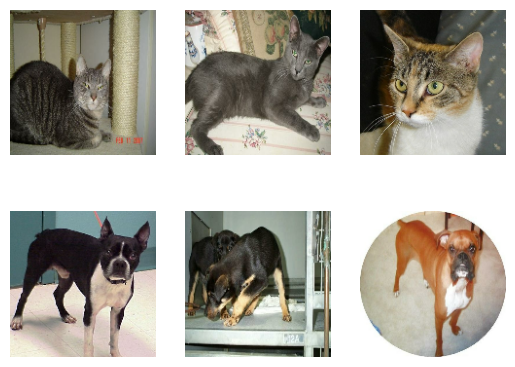
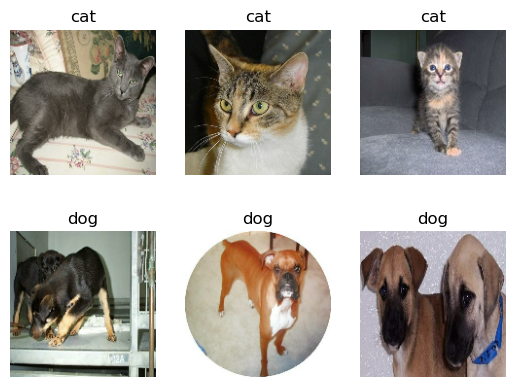
Built site for gh-pages

diff --git a/posts/hw 5/index.html b/posts/hw 5/index.html
@@ -192,7 +192,7 @@ pre > code.sourceCode > span > a:first-child::before { text-decoration: underlin
 <p>We will teach a machine learning algorithm to distinguish between pictures of dogs and pictures of cats. To do this, we will use tensorflow and keras. We will test several methods to see which method is the most accurate.</p>
 <section id="step-1-importing-necessary-packages-to-use-in-the-project" class="level3">
 <h3 class="anchored" data-anchor-id="step-1-importing-necessary-packages-to-use-in-the-project">Step 1: Importing necessary packages to use in the project</h3>
-<div id="70b1fee2-2e28-45b8-9876-0ba6ffef64b8" class="cell" data-tags="[]" data-execution_count="7">
+<div id="70b1fee2-2e28-45b8-9876-0ba6ffef64b8" class="cell" data-tags="[]" data-execution_count="3">
 <div class="sourceCode cell-code" id="cb1"><pre class="sourceCode python code-with-copy"><code class="sourceCode python"><span id="cb1-1"><a href="#cb1-1" aria-hidden="true" tabindex="-1"></a><span class="co"># importing necessary packages</span></span>
 <span id="cb1-2"><a href="#cb1-2" aria-hidden="true" tabindex="-1"></a></span>
 <span id="cb1-3"><a href="#cb1-3" aria-hidden="true" tabindex="-1"></a><span class="im">import</span> os  </span>
@@ -220,7 +220,7 @@ pre > code.sourceCode > span > a:first-child::before { text-decoration: underlin
 <section id="step-2-import-data" class="level3">
 <h3 class="anchored" data-anchor-id="step-2-import-data">Step 2: Import Data</h3>
 <p>We’ll use a sample data set from Kaggle that contains labeled images of cats and dogs. Its imported below and split between train data set, validation data set, and test data set.</p>
-<div id="a579e0af-7531-4e39-b7c9-c689bedf8381" class="cell" data-tags="[]" data-execution_count="8">
+<div id="a579e0af-7531-4e39-b7c9-c689bedf8381" class="cell" data-tags="[]" data-execution_count="4">
 <div class="sourceCode cell-code" id="cb2"><pre class="sourceCode python code-with-copy"><code class="sourceCode python"><span id="cb2-1"><a href="#cb2-1" aria-hidden="true" tabindex="-1"></a><span class="co"># creates our training, validation, and testing data sets</span></span>
 <span id="cb2-2"><a href="#cb2-2" aria-hidden="true" tabindex="-1"></a>train_ds, validation_ds, test_ds <span class="op">=</span> tfds.load(</span>
 <span id="cb2-3"><a href="#cb2-3" aria-hidden="true" tabindex="-1"></a>    <span class="st">"cats_vs_dogs"</span>,</span>
@@ -240,7 +240,7 @@ Number of test samples: 2326</code></pre>
 </div>
 <p>From this we see how our data was split up!</p>
 <p>Now, we will resize our data using the next two code blocks. The dataset contains images of different sizes, so we resize them to a fixed size of 150x150.</p>
-<div id="483f5b0b-6645-4c8b-a335-2905bb7b51dc" class="cell" data-tags="[]" data-execution_count="9">
+<div id="483f5b0b-6645-4c8b-a335-2905bb7b51dc" class="cell" data-tags="[]" data-execution_count="5">
 <div class="sourceCode cell-code" id="cb4"><pre class="sourceCode python code-with-copy"><code class="sourceCode python"><span id="cb4-1"><a href="#cb4-1" aria-hidden="true" tabindex="-1"></a><span class="co"># resizing our data sets</span></span>
 <span id="cb4-2"><a href="#cb4-2" aria-hidden="true" tabindex="-1"></a>resize_fn <span class="op">=</span> keras.layers.Resizing(<span class="dv">150</span>, <span class="dv">150</span>)</span>
 <span id="cb4-3"><a href="#cb4-3" aria-hidden="true" tabindex="-1"></a></span>
@@ -248,7 +248,7 @@ Number of test samples: 2326</code></pre>
 <span id="cb4-5"><a href="#cb4-5" aria-hidden="true" tabindex="-1"></a>validation_ds <span class="op">=</span> validation_ds.<span class="bu">map</span>(<span class="kw">lambda</span> x, y: (resize_fn(x), y)) <span class="co"># using lambda function to resize the validation_ds code</span></span>
 <span id="cb4-6"><a href="#cb4-6" aria-hidden="true" tabindex="-1"></a>test_ds <span class="op">=</span> test_ds.<span class="bu">map</span>(<span class="kw">lambda</span> x, y: (resize_fn(x), y)) <span class="co"># using lambda function to resize teh test_ds code</span></span></code><button title="Copy to Clipboard" class="code-copy-button"><i class="bi"></i></button></pre></div>
 </div>
-<div id="12664137-7178-49fb-bed2-77f34640731d" class="cell" data-tags="[]" data-execution_count="10">
+<div id="12664137-7178-49fb-bed2-77f34640731d" class="cell" data-tags="[]" data-execution_count="6">
 <div class="sourceCode cell-code" id="cb5"><pre class="sourceCode python code-with-copy"><code class="sourceCode python"><span id="cb5-1"><a href="#cb5-1" aria-hidden="true" tabindex="-1"></a><span class="im">from</span> tensorflow <span class="im">import</span> data <span class="im">as</span> tf_data</span>
 <span id="cb5-2"><a href="#cb5-2" aria-hidden="true" tabindex="-1"></a>batch_size <span class="op">=</span> <span class="dv">64</span></span>
 <span id="cb5-3"><a href="#cb5-3" aria-hidden="true" tabindex="-1"></a></span>
@@ -260,7 +260,7 @@ Number of test samples: 2326</code></pre>
 <section id="step-3-visualize-some-data" class="level3">
 <h3 class="anchored" data-anchor-id="step-3-visualize-some-data">Step 3: Visualize some data</h3>
 <p>Below we have a function to vidualize random images from the data set. It will generate 3 random images of cats, and 3 random images of dogs. We will use matplotlib to visualize the images from the given data</p>
-<div id="354b6a9c-9797-4217-b90b-3580c0c78b81" class="cell" data-tags="[]" data-execution_count="11">
+<div id="354b6a9c-9797-4217-b90b-3580c0c78b81" class="cell" data-tags="[]" data-execution_count="7">
 <div class="sourceCode cell-code" id="cb6"><pre class="sourceCode python code-with-copy"><code class="sourceCode python"><span id="cb6-1"><a href="#cb6-1" aria-hidden="true" tabindex="-1"></a><span class="co"># writing a function to randomly visualize 3 images of cats and 3 images of dogs</span></span>
 <span id="cb6-2"><a href="#cb6-2" aria-hidden="true" tabindex="-1"></a></span>
 <span id="cb6-3"><a href="#cb6-3" aria-hidden="true" tabindex="-1"></a><span class="co">#show 3 cats, 3  dogs</span></span>
@@ -275,20 +275,22 @@ Number of test samples: 2326</code></pre>
 <span id="cb6-12"><a href="#cb6-12" aria-hidden="true" tabindex="-1"></a>            <span class="cf">if</span> <span class="bu">int</span>(lbl[i]) <span class="op">==</span> <span class="dv">1</span> <span class="kw">and</span> dogs <span class="op">&lt;</span> <span class="dv">3</span>:  <span class="co"># repeats while the number of dogs pulled is less than 3</span></span>
 <span id="cb6-13"><a href="#cb6-13" aria-hidden="true" tabindex="-1"></a>                ax <span class="op">=</span> plt.subplot(<span class="dv">2</span>, <span class="dv">3</span>, dogs<span class="op">+</span><span class="dv">4</span>) </span>
 <span id="cb6-14"><a href="#cb6-14" aria-hidden="true" tabindex="-1"></a>                plt.imshow(img[i].numpy().astype(<span class="st">"uint8"</span>))</span>
-<span id="cb6-15"><a href="#cb6-15" aria-hidden="true" tabindex="-1"></a>                plt.axis(<span class="st">"off"</span>) <span class="co"># removes axis numbering</span></span>
-<span id="cb6-16"><a href="#cb6-16" aria-hidden="true" tabindex="-1"></a>                dogs <span class="op">=</span> dogs <span class="op">+</span> <span class="dv">1</span></span>
-<span id="cb6-17"><a href="#cb6-17" aria-hidden="true" tabindex="-1"></a>            <span class="cf">if</span> <span class="bu">int</span>(lbl[i]) <span class="op">==</span> <span class="dv">0</span> <span class="kw">and</span> cats <span class="op">&lt;</span> <span class="dv">3</span>: <span class="co"># repeates while the number of cats pulled is less than 3</span></span>
-<span id="cb6-18"><a href="#cb6-18" aria-hidden="true" tabindex="-1"></a>                ax <span class="op">=</span> plt.subplot(<span class="dv">2</span>, <span class="dv">3</span>, cats<span class="op">+</span><span class="dv">1</span>) </span>
-<span id="cb6-19"><a href="#cb6-19" aria-hidden="true" tabindex="-1"></a>                plt.imshow(img[i].numpy().astype(<span class="st">"uint8"</span>))</span>
-<span id="cb6-20"><a href="#cb6-20" aria-hidden="true" tabindex="-1"></a>                plt.axis(<span class="st">"off"</span>) <span class="co"># removes axis numbering</span></span>
-<span id="cb6-21"><a href="#cb6-21" aria-hidden="true" tabindex="-1"></a>                cats <span class="op">=</span> cats <span class="op">+</span> <span class="dv">1</span></span>
-<span id="cb6-22"><a href="#cb6-22" aria-hidden="true" tabindex="-1"></a>          </span>
-<span id="cb6-23"><a href="#cb6-23" aria-hidden="true" tabindex="-1"></a></span></code><button title="Copy to Clipboard" class="code-copy-button"><i class="bi"></i></button></pre></div>
+<span id="cb6-15"><a href="#cb6-15" aria-hidden="true" tabindex="-1"></a>                plt.title(<span class="st">"dog"</span>)</span>
+<span id="cb6-16"><a href="#cb6-16" aria-hidden="true" tabindex="-1"></a>                plt.axis(<span class="st">"off"</span>) <span class="co"># removes axis numbering</span></span>
+<span id="cb6-17"><a href="#cb6-17" aria-hidden="true" tabindex="-1"></a>                dogs <span class="op">=</span> dogs <span class="op">+</span> <span class="dv">1</span></span>
+<span id="cb6-18"><a href="#cb6-18" aria-hidden="true" tabindex="-1"></a>            <span class="cf">if</span> <span class="bu">int</span>(lbl[i]) <span class="op">==</span> <span class="dv">0</span> <span class="kw">and</span> cats <span class="op">&lt;</span> <span class="dv">3</span>: <span class="co"># repeates while the number of cats pulled is less than 3</span></span>
+<span id="cb6-19"><a href="#cb6-19" aria-hidden="true" tabindex="-1"></a>                ax <span class="op">=</span> plt.subplot(<span class="dv">2</span>, <span class="dv">3</span>, cats<span class="op">+</span><span class="dv">1</span>) </span>
+<span id="cb6-20"><a href="#cb6-20" aria-hidden="true" tabindex="-1"></a>                plt.imshow(img[i].numpy().astype(<span class="st">"uint8"</span>))</span>
+<span id="cb6-21"><a href="#cb6-21" aria-hidden="true" tabindex="-1"></a>                plt.title(<span class="st">"cat"</span>)</span>
+<span id="cb6-22"><a href="#cb6-22" aria-hidden="true" tabindex="-1"></a>                plt.axis(<span class="st">"off"</span>) <span class="co"># removes axis numbering</span></span>
+<span id="cb6-23"><a href="#cb6-23" aria-hidden="true" tabindex="-1"></a>                cats <span class="op">=</span> cats <span class="op">+</span> <span class="dv">1</span></span>
+<span id="cb6-24"><a href="#cb6-24" aria-hidden="true" tabindex="-1"></a>          </span>
+<span id="cb6-25"><a href="#cb6-25" aria-hidden="true" tabindex="-1"></a></span></code><button title="Copy to Clipboard" class="code-copy-button"><i class="bi"></i></button></pre></div>
 </div>
-<div id="d39734bc-c7f0-4a0f-8d81-f66f3dd42bcd" class="cell" data-tags="[]" data-execution_count="12">
+<div id="d39734bc-c7f0-4a0f-8d81-f66f3dd42bcd" class="cell" data-tags="[]" data-execution_count="8">
 <div class="sourceCode cell-code" id="cb7"><pre class="sourceCode python code-with-copy"><code class="sourceCode python"><span id="cb7-1"><a href="#cb7-1" aria-hidden="true" tabindex="-1"></a>visualize(train_ds) <span class="co"># use the above function</span></span></code><button title="Copy to Clipboard" class="code-copy-button"><i class="bi"></i></button></pre></div>
 <div class="cell-output cell-output-stderr">
-<pre><code>2024-03-03 16:41:06.283929: W tensorflow/core/kernels/data/cache_dataset_ops.cc:858] The calling iterator did not fully read the dataset being cached. In order to avoid unexpected truncation of the dataset, the partially cached contents of the dataset  will be discarded. This can happen if you have an input pipeline similar to `dataset.cache().take(k).repeat()`. You should use `dataset.take(k).cache().repeat()` instead.</code></pre>
+<pre><code>2024-03-10 17:24:51.820278: W tensorflow/core/kernels/data/cache_dataset_ops.cc:858] The calling iterator did not fully read the dataset being cached. In order to avoid unexpected truncation of the dataset, the partially cached contents of the dataset  will be discarded. This can happen if you have an input pipeline similar to `dataset.cache().take(k).repeat()`. You should use `dataset.take(k).cache().repeat()` instead.</code></pre>
 </div>
 <div class="cell-output cell-output-display">
 <div>

diff --git a/index.html b/index.html
@@ -205,7 +205,7 @@ window.Quarto = {
 
 <div class="quarto-listing quarto-listing-container-default" id="listing-listing">
 <div class="list quarto-listing-default">
-<div class="quarto-post image-right" data-index="0" data-categories="week 10,Final" data-listing-file-modified-sort="1710116481808" data-listing-reading-time-sort="6" data-listing-word-count-sort="1176">
+<div class="quarto-post image-right" data-index="0" data-categories="week 10,Final" data-listing-file-modified-sort="1710116602567" data-listing-reading-time-sort="7" data-listing-word-count-sort="1211">
 <div class="thumbnail">
 <p><a href="./posts/final project/Untitled.html" class="no-external"></a></p><a href="./posts/final project/Untitled.html" class="no-external">
 <p class="card-img-top"><img src="posts/final project/Untitled_files/figure-html/98046c26-2bc5-478d-81cd-e3a4dbc34dd8-1-9610984a-8bc1-4482-badf-d9255926064f.png"  class="thumbnail-image card-img"/></p>
@@ -238,7 +238,7 @@ Nico Morrone, Ethan Buntaran, Arvin Hosseini
 </a>
 </div>
 </div>
-<div class="quarto-post image-right" data-index="1" data-categories="week 8,Homework" data-listing-date-sort="1709452800000" data-listing-file-modified-sort="1709539142282" data-listing-date-modified-sort="NaN" data-listing-reading-time-sort="5" data-listing-word-count-sort="915">
+<div class="quarto-post image-right" data-index="1" data-categories="week 8,Homework" data-listing-date-sort="1709452800000" data-listing-file-modified-sort="1710116781158" data-listing-date-modified-sort="NaN" data-listing-reading-time-sort="5" data-listing-word-count-sort="915">
 <div class="thumbnail">
 <p><a href="./posts/hw 5/index.html" class="no-external"></a></p><a href="./posts/hw 5/index.html" class="no-external">
 <p class="card-img-top"><img src="posts/hw 5/index_files/figure-html/cell-7-output-2.png"  class="thumbnail-image card-img"/></p>

diff --git a/posts/final project/Untitled.html b/posts/final project/Untitled.html
@@ -372,7 +372,7 @@ pre > code.sourceCode > span > a:first-child::before { text-decoration: underlin
 </section>
 <section id="conclusion" class="level1">
 <h1>Conclusion</h1>
-<p>Our Minesweeper project uses Pygame, Tkinter, and plotly to create an interactive minesweeper game with a functional leaderboard and game stats plots. Our game has multiple difficulties for players to choose from, and interactive plots for players to understand their progress and how they can improve their game. Our project is perfefctly ethical. Since minesweeper is a public</p>
+<p>Our Minesweeper project uses Pygame, Tkinter, and plotly to create an interactive minesweeper game with a functional leaderboard and game stats plots. Our game has multiple difficulties for players to choose from, and interactive plots for players to understand their progress and how they can improve their game. Our project is perfefctly ethical. Since minesweeper is a public entity under the GNU General Public License, we can edit and modify the game however we like. Therefore our project doesn’t break any copyright rules, and since it’s a simple harmless game, has no ethical problems.</p>
 
 
 </section>
